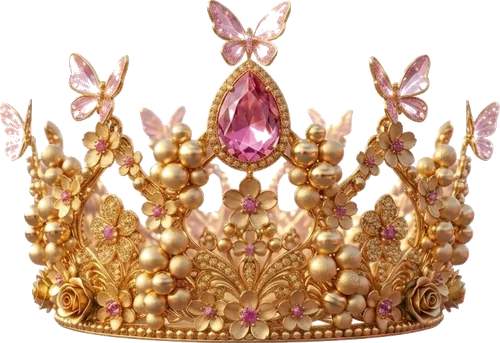
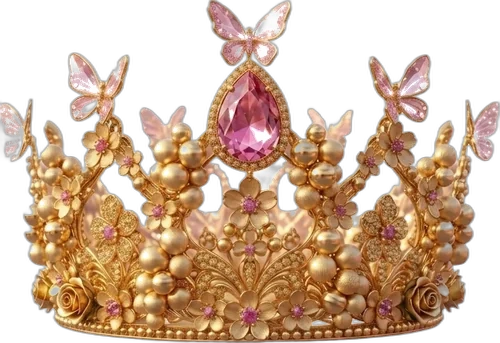
Corrige layout galeria, pisca ranking e fundo da coroa
- Galeria: troca columns (masonry) por CSS grid para fotos mais curtidas ficarem no topo-esquerda em ordem
- Ranking: aumenta intervalo de 5s para 60s e evita rebuild do DOM quando dados não mudam
- Coroa: reprocessa com rembg (IA) eliminando halos e falhas do fundo branco

https://claude.ai/code/session_01FCVQ8yZVNe3EoMvGnSvjEj

diff --git a/index.html b/index.html
@@ -130,12 +130,11 @@
       text-align: right;
     }
     .gallery-grid {
-      columns: 3 260px;
-      column-gap: 12px;
+      display: grid;
+      grid-template-columns: repeat(3, 1fr);
+      gap: 12px;
     }
     .photo-card {
-      break-inside: avoid;
-      margin-bottom: 12px;
       border-radius: 14px;
       overflow: hidden;
       cursor: pointer;
@@ -143,9 +142,10 @@
       box-shadow: var(--shadow);
       transition: transform 0.3s, box-shadow 0.3s;
       background: #eee;
+      aspect-ratio: 1;
     }
     .photo-card:hover { transform: translateY(-4px); box-shadow: 0 10px 36px rgba(44,24,16,0.22); }
-    .photo-card img, .photo-card video { width: 100%; display: block; }
+    .photo-card img, .photo-card video { width: 100%; height: 100%; object-fit: cover; display: block; }
     .photo-card video { aspect-ratio: 16/9; background: #111; object-fit: cover; }
     .video-badge {
       position: absolute;
@@ -541,7 +541,7 @@
 
     /* ===== RESPONSIVE ===== */
     @media (max-width: 640px) {
-      .gallery-grid { columns: 2 140px; }
+      .gallery-grid { grid-template-columns: repeat(2, 1fr); }
       .upload-card { padding: 24px 18px; border-radius: 16px; }
       .header { padding: 36px 16px 24px; }
       .nav-btn { padding: 14px 22px; font-size: 0.85rem; }
@@ -1311,11 +1311,13 @@
   });
 
   // =========== RANKING ===========
-  const RANKING_REFRESH_MS = 5000;
+  const RANKING_REFRESH_MS = 60000;
   let rankingTimer = null;
+  let rankingSignature = '';
 
   async function startRanking() {
     if (!configured) return;
+    rankingSignature = '';
     await renderRanking(true);
     rankingTimer = setInterval(() => renderRanking(false), RANKING_REFRESH_MS);
   }
@@ -1371,8 +1373,14 @@
     if (ranked.length === 0) {
       elEmpty.style.display = 'block';
       elContent.style.display = 'none';
+      rankingSignature = '';
       return;
     }
+
+    // Só reconstrói o DOM se os dados mudaram
+    const newSig = ranked.map(f => f.name + ':' + f.count).join('|');
+    if (newSig === rankingSignature) return;
+    rankingSignature = newSig;
 
     elEmpty.style.display = 'none';
     elContent.style.display = 'block';
